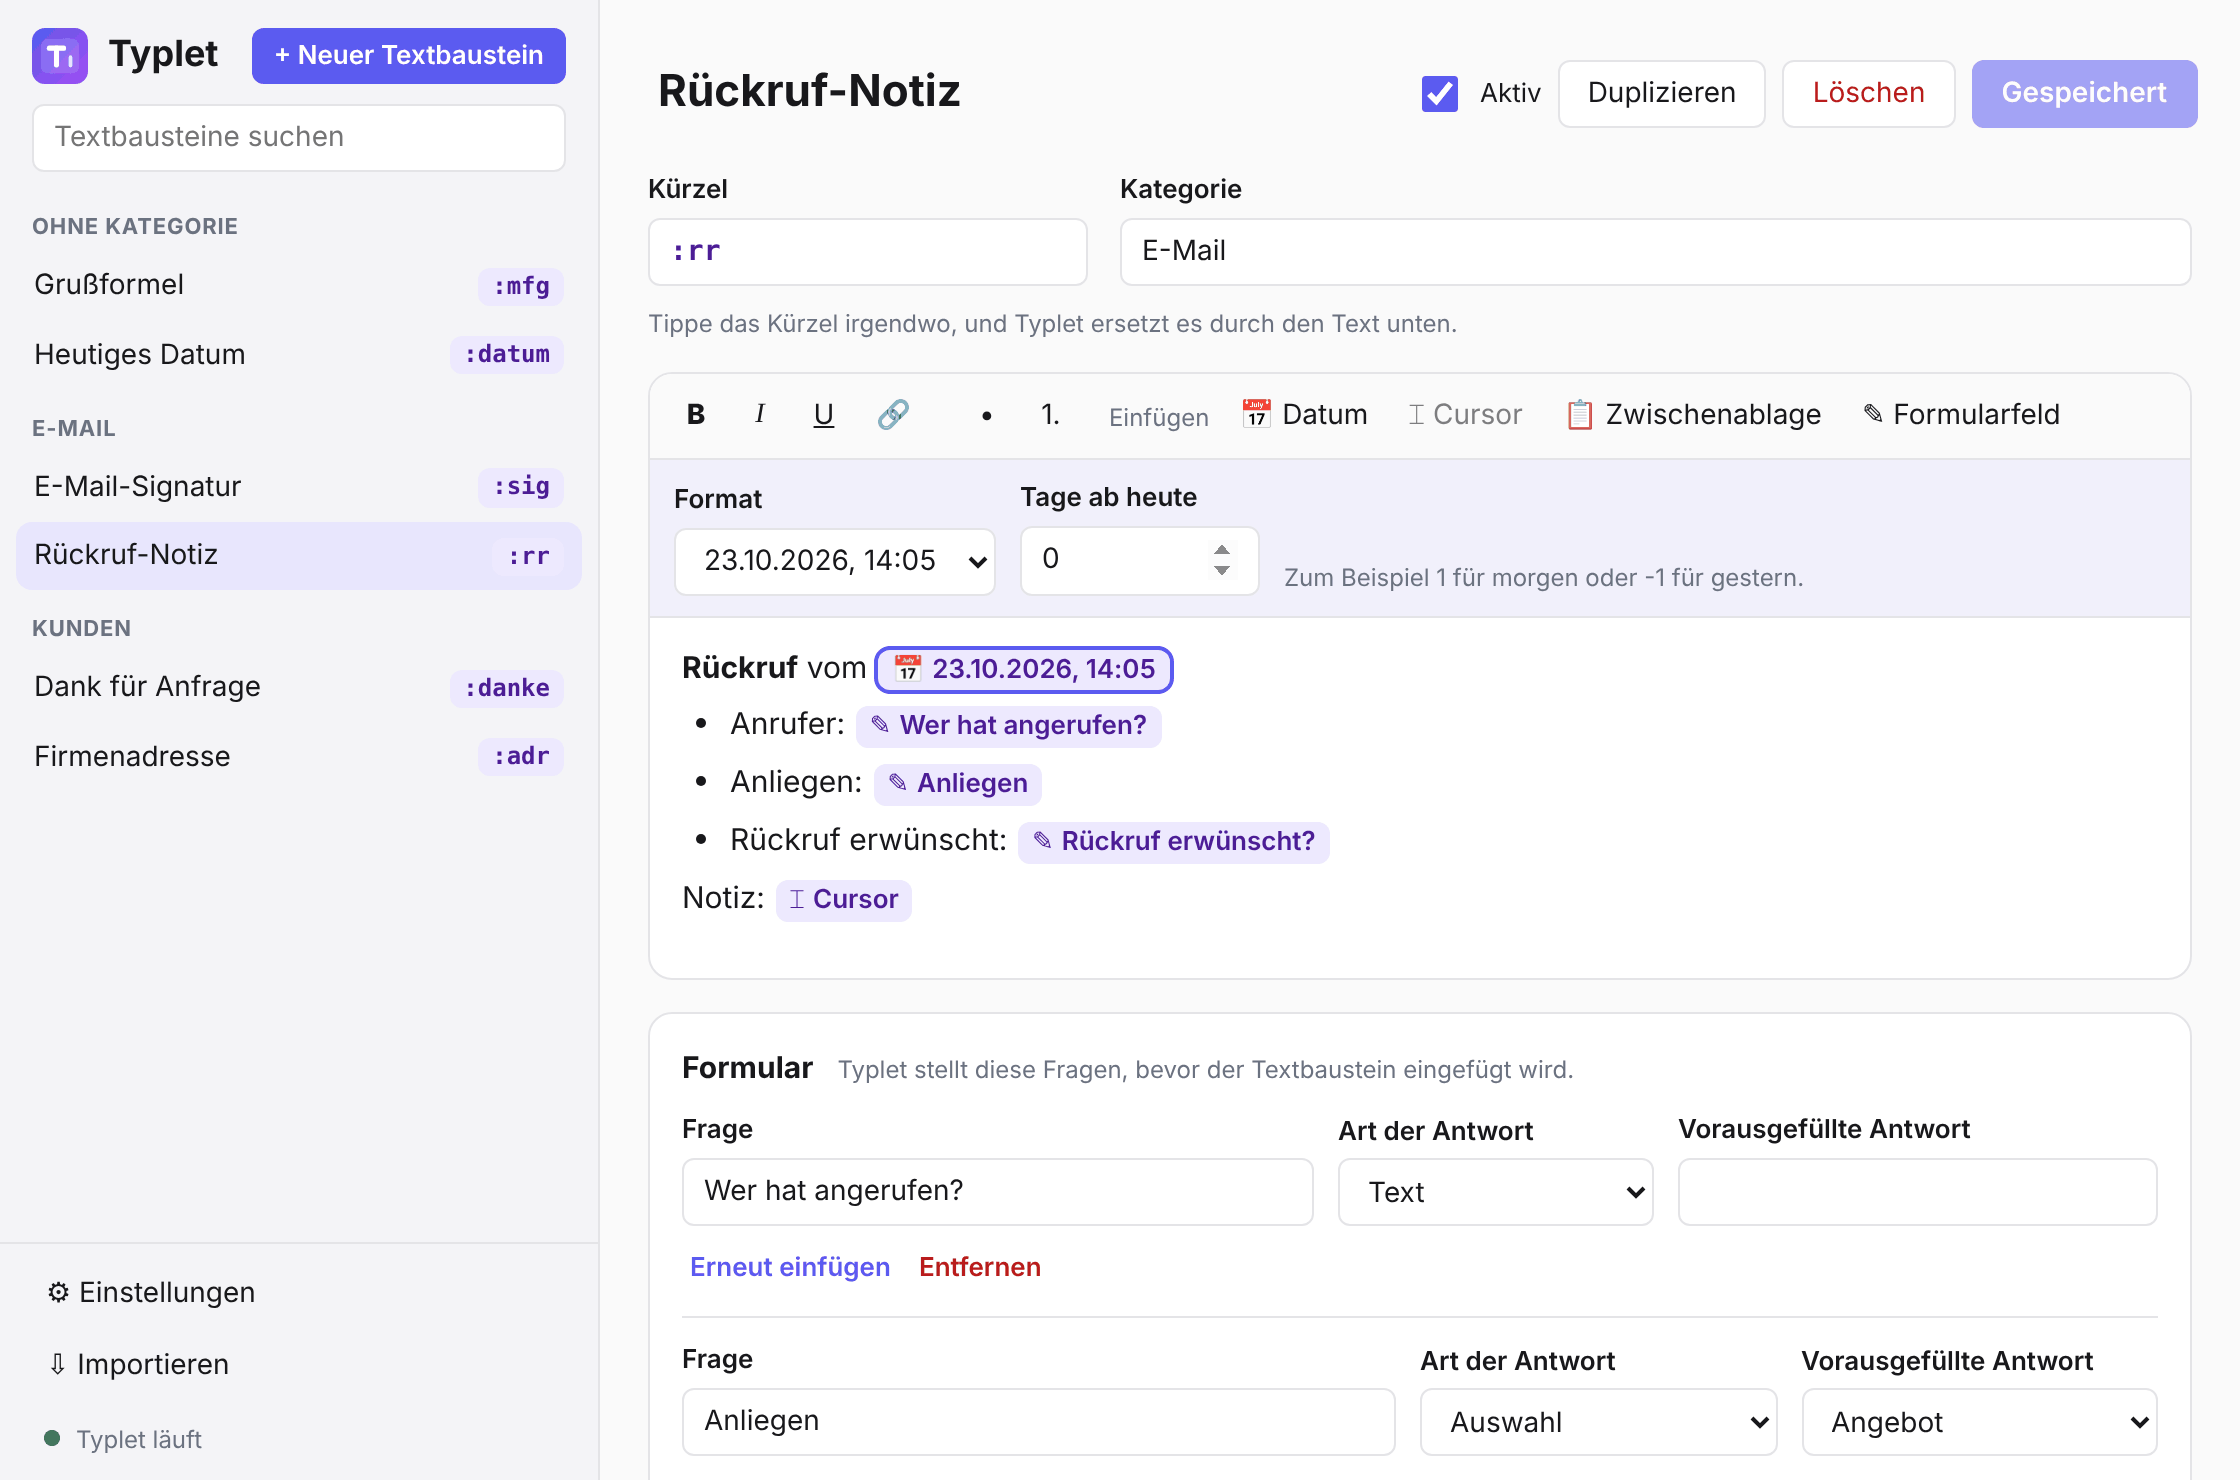
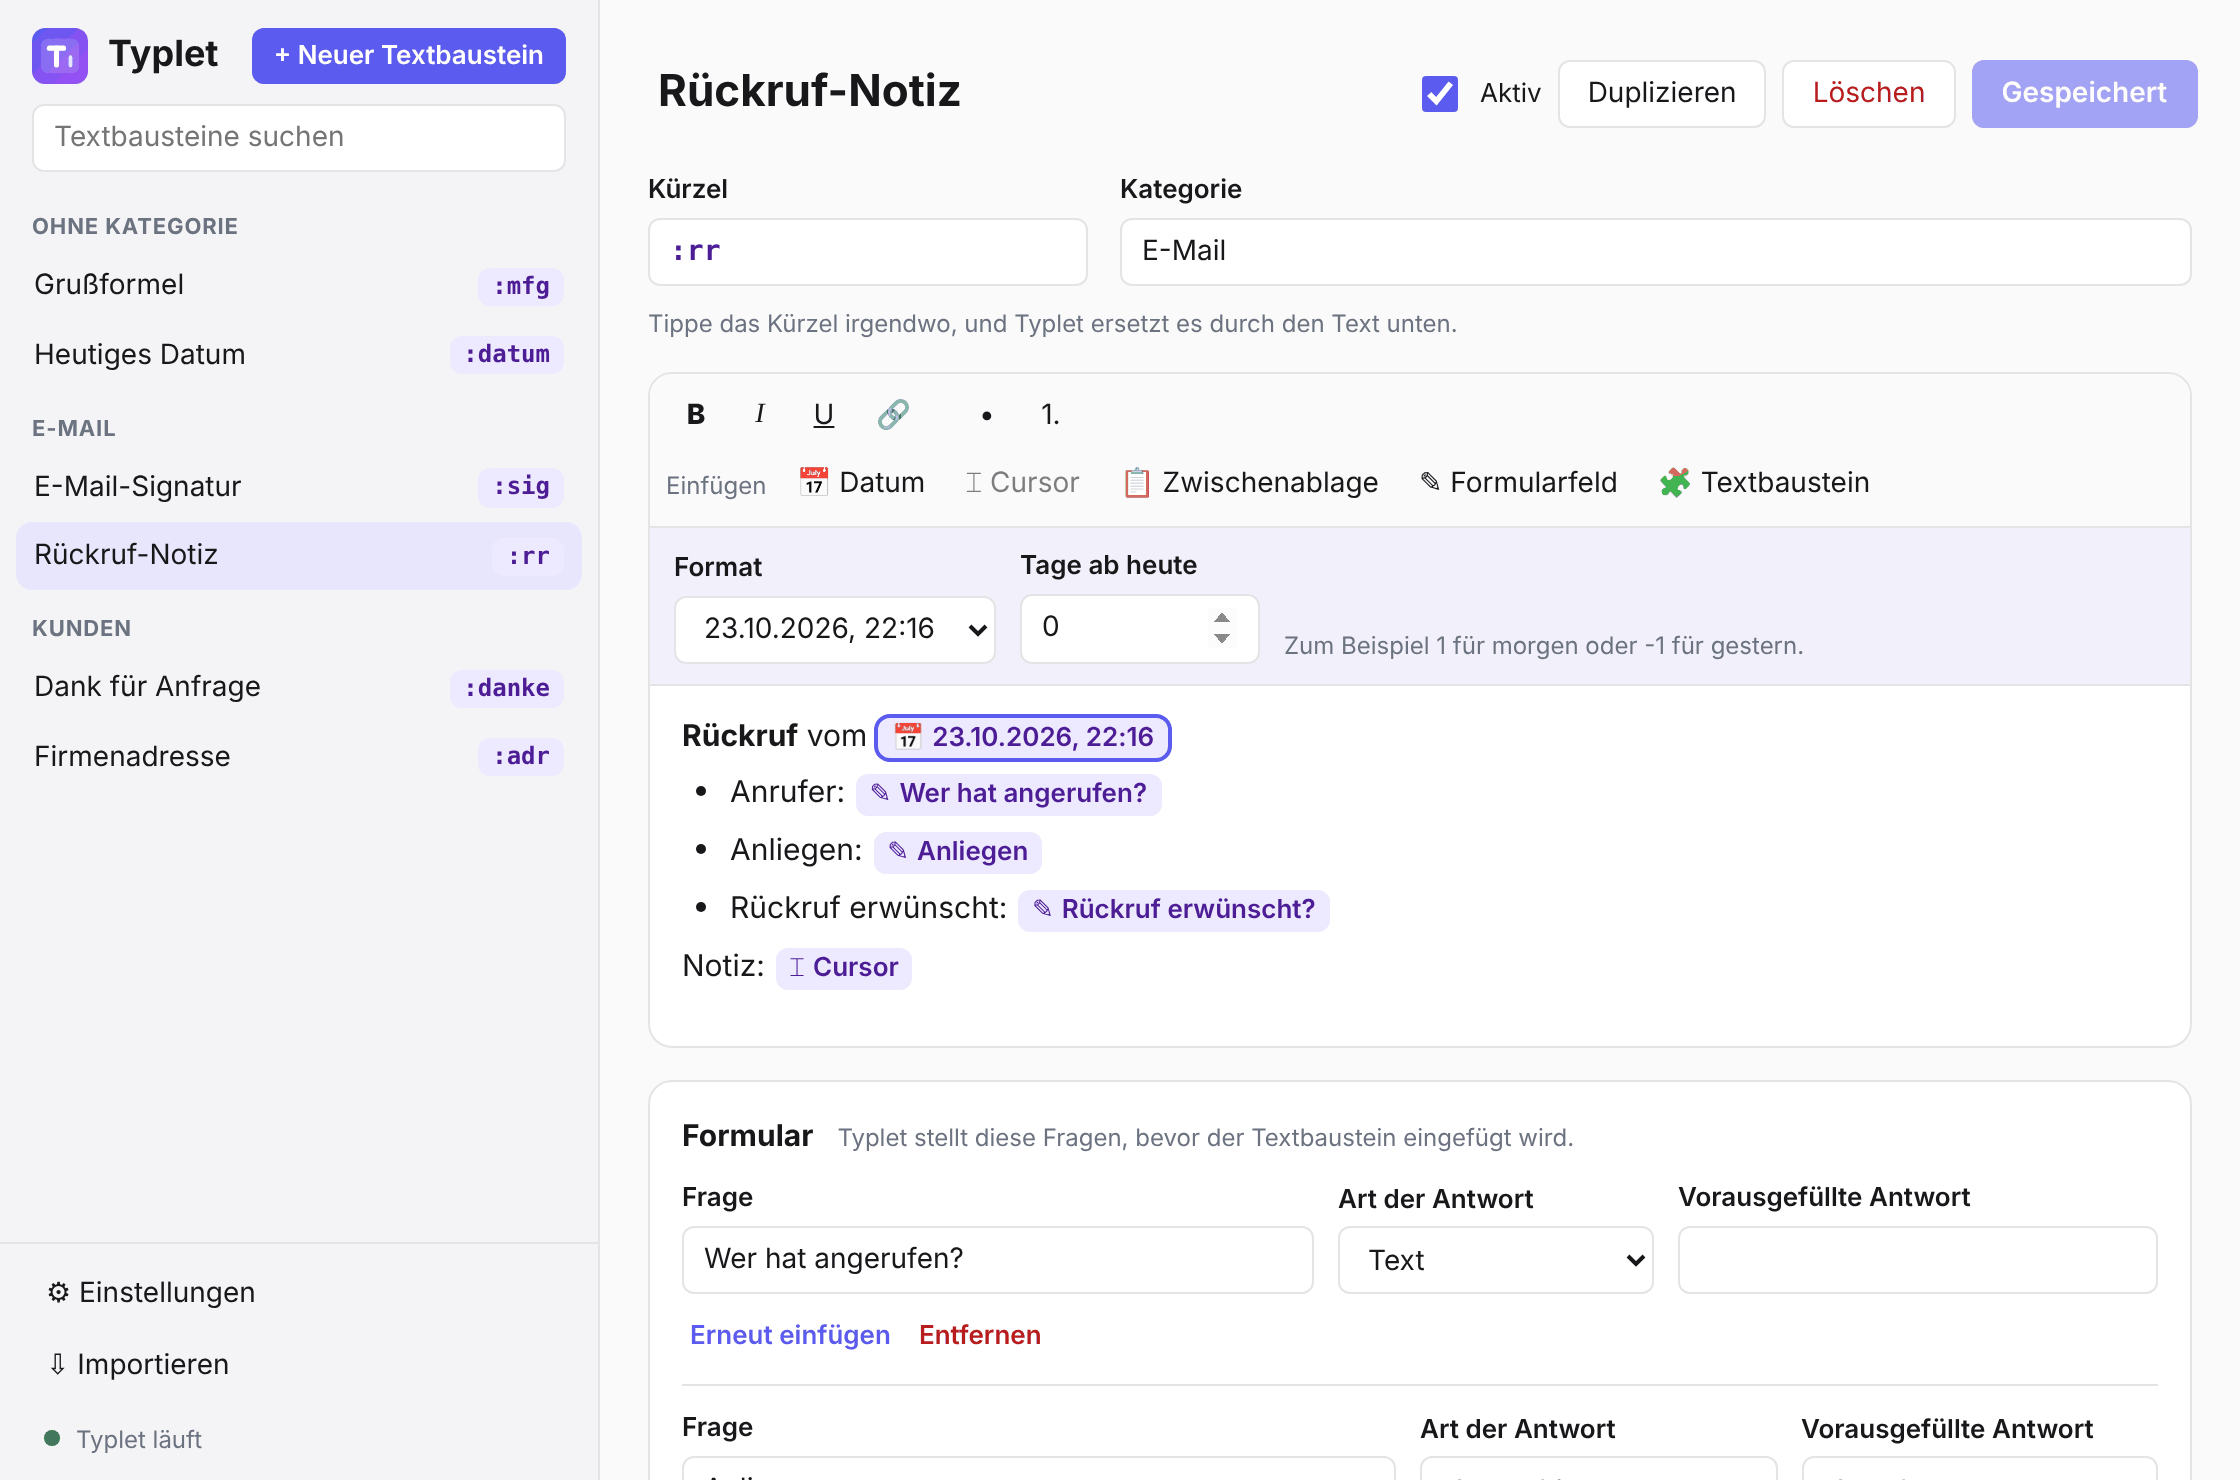
feat(core): snippets inside snippets
A new `snippet` inline includes another snippet by id. Alone in a
paragraph it splices the included blocks; inside text its blocks become
lines. Included form fields are asked once per name, included cursors
are dropped, and switched-off snippets still work as building blocks.
Loops, missing snippets and more than five levels are refused by the
editor, fail rendering with a message and are listed in the diagnostics.

The editor gets a "Snippet" button with a searchable picker that never
offers a loop, a green chip with an inspector to switch or open the
included snippet, and a warning before deleting a snippet others use.
espanso's nested matches (`type: match`) are imported as includes.

Docs: ADR 0016, snippet format, architecture, user guides, README,
roadmap, changelog, new example and screenshots.

Claude-Session: https://claude.ai/code/session_014EdN4Y9oaSyjqVsqrCUbYn

diff --git a/scripts/editor-screenshots.py b/scripts/editor-screenshots.py
@@ -27,11 +27,13 @@ BASE = f"http://localhost:{PORT}/"
 # Snippet ids from src/demo.ts.
 SIGNATURE = "019a0f3c-5d2e-7a10-8b3c-0a1b2c3d4e03"
 FORM = "019a0f3c-5d2e-7a10-8b3c-0a1b2c3d4e04"
+THANKS = "019a0f3c-5d2e-7a10-8b3c-0a1b2c3d4e06"
 
 SHOTS = [
     ("editor.png", f"open={SIGNATURE}", None),
     ("editor-form.png", f"open={FORM}", None),
     ("editor-date.png", f"open={FORM}", ".chip-date"),
+    ("editor-nested.png", f"open={THANKS}", ".chip-snippet"),
     ("editor-settings.png", "settings", None),
     ("editor-update.png", "update", None),
 ]
